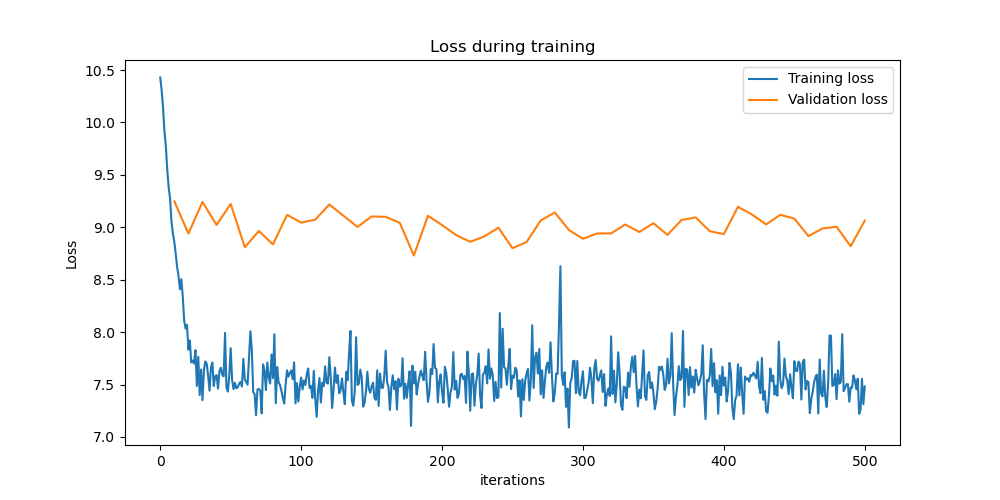
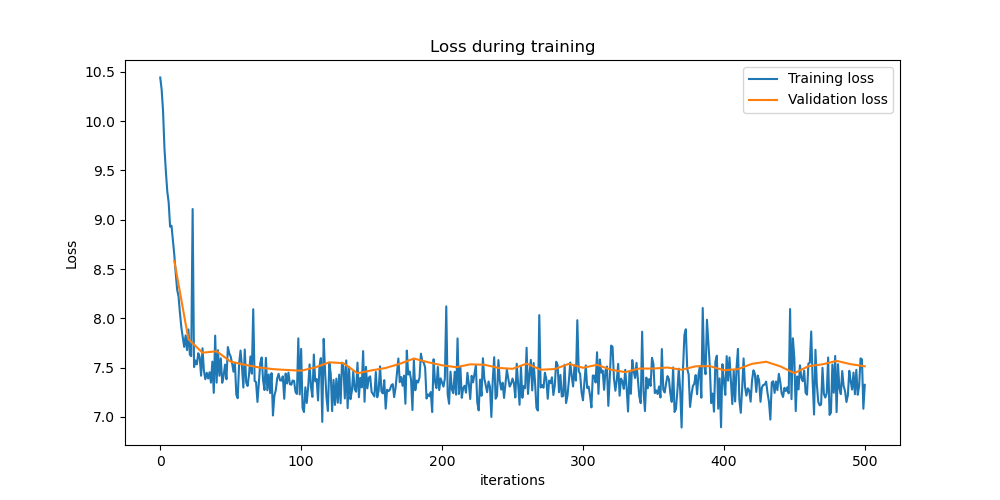
update val loss and Lion optimizer

diff --git a/hw2.py b/hw2.py
@@ -16,6 +16,7 @@ from model import Transformer
 from model import ModelArgs
 from transformers import AutoTokenizer
 from generation import LLaMA
+from lion_pytorch import Lion
 
 
 def setup_model_parallel():
@@ -103,9 +104,9 @@ encoding = tokenizer("Hello I am a human")
 print(tokenizer.vocab_size)
 print(encoding)
 
-eval_dataset = tokenizer(read_file(val_path, entries=10000), padding=True, truncation=True, return_tensors="pt")[
+eval_dataset = tokenizer(read_file(val_path, entries=500), padding=True, truncation=True, return_tensors="pt")[
     'input_ids']
-train_dataset = tokenizer(read_file(train_path, entries=30000), padding=True, truncation=True, return_tensors="pt")[
+train_dataset = tokenizer(read_file(train_path, entries=500), padding=True, truncation=True, return_tensors="pt")[
     'input_ids']
 print(type(eval_dataset))
 eval_dataset.to(device)
@@ -158,7 +159,7 @@ def train(
 
         t0 = time.time()
 
-        input_ids, targets = get_batch(train_dataset)  # type: ignore[union-attr,arg-type]
+        input_ids, targets = get_batch(train_data)  # type: ignore[union-attr,arg-type]
         input_ids = input_ids.to(device)
         targets = targets.to(device)
         logits = model.forward(input_ids, 0)
@@ -207,7 +208,7 @@ def validate(model: torch.nn.Module, val_data: np.ndarray) -> torch.Tensor:
         targets = targets.to(device)
         logits = model.forward(input_ids, 0)
         logits = torch.flatten(logits, start_dim=0, end_dim=1)
-        loss = torch.nn.functional.cross_entropy(logits, targets.reshape(-1))
+        loss = torch.nn.functional.cross_entropy(logits, targets.reshape(-1), ignore_index=tokenizer._pad_token_type_id)
         loss = loss.detach().cpu().numpy()
         losses[k] = loss.item()
         gc.collect()
@@ -232,7 +233,9 @@ def main():
     torch.cuda.empty_cache()
     model = Transformer(ModelArgs())
     model.to(device)
-    optimizer = torch.optim.AdamW(model.parameters(), lr=lr, weight_decay=weight_decay, betas=(beta1, beta2))
+    # optimizer = torch.optim.AdamW(model.parameters(), lr=lr, weight_decay=weight_decay, betas=(beta1, beta2))
+    # Ablation study
+    optimizer = Lion(model.parameters(), lr=lr, weight_decay=weight_decay, betas=(beta1, beta2))
 
     train(model, optimizer, train_dataset, eval_dataset, checkpoint=None, iters=501, out_dir=out_dir)
 
